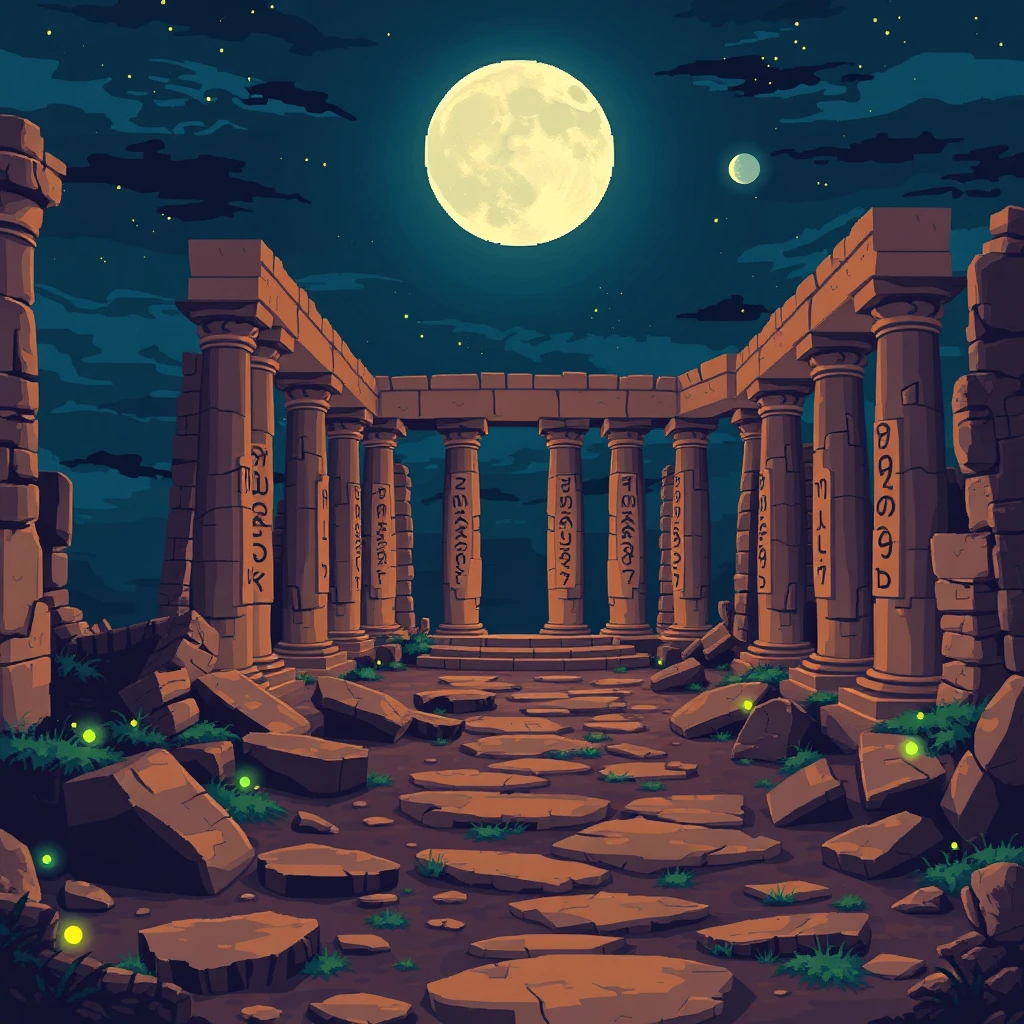
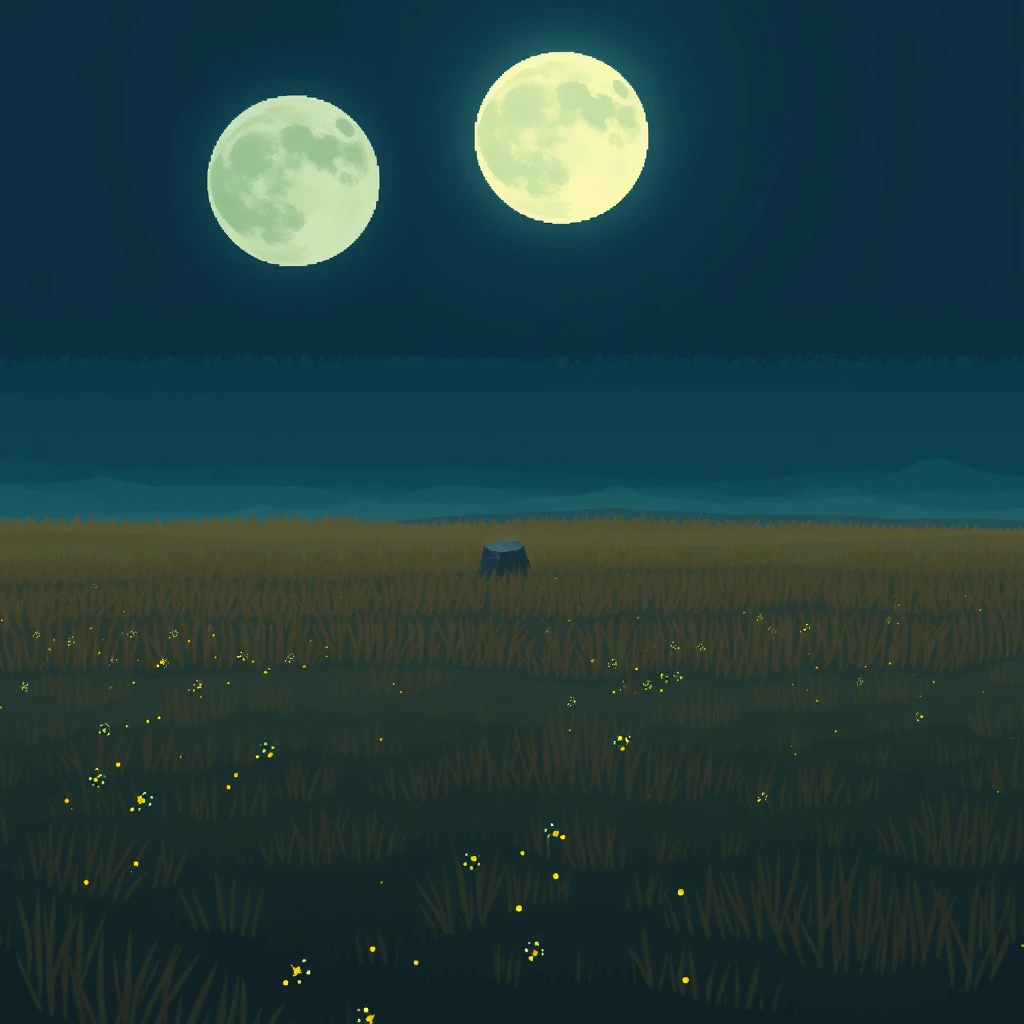
feat: pipeline update and hidden posts system
- Update content config and handoff state
- Add 10 cover images for hidden posts
- Update cover sprite composition script
- Pipeline update post

[skip ci]

diff --git a/src/content.config.ts b/src/content.config.ts
@@ -8,7 +8,7 @@ const posts = defineCollection({
     description: z.string(),
     date: z.date(),
     pubDate: z.date().optional(),
-    project: z.enum(['arachne', 'dogwalk', 'portfolio', 'capivara', 'tatuengine', 'estudos', 'descobertas', 'lifelog', 'seguranca', 'yurumi']),
+    project: z.enum(['arachne', 'capivara', 'descobertas', 'dogwalk', 'estudos', 'lifelog', 'pipeline-update', 'portfolio', 'seguranca', 'tatuengine', 'yurumi']),
     tags: z.array(z.string()),
     icon: z.string().optional(),
     cover: z.string().optional(),

diff --git a/scripts/cover-sprite-compose.py b/scripts/cover-sprite-compose.py
@@ -69,9 +69,10 @@ SCENES = {
         "Empty scene, no characters, no animals, no people, no text."
     ),
     "torre-servidores": (
-        "empty corridor of a data center, rows of dark server racks, small green "
-        "and amber LEDs, cool blue light on the floor, no one in the corridor. "
-        "Empty scene, no characters, no animals, no people, no text."
+        "empty wide stone plateau at dusk under a teal sky, one single tall "
+        "monolithic obelisk silhouette on the horizon, low fog, distant "
+        "mountains, smooth open ground. Empty scene, no buildings, no machines, "
+        "no cables, no panels, no characters, no animals, no people, no text."
     ),
     "floresta-nebulosa": (
         "empty dense forest clearing at night, giant twisted trees, bioluminescent "
@@ -84,19 +85,23 @@ SCENES = {
         "no people, no text."
     ),
     "ruinas-runas": (
-        "empty ruins of an ancient stone temple at night, broken columns, "
-        "glowing runic carvings, moss and fireflies, full moon. "
-        "Empty scene, no characters, no animals, no people, no text."
+        "empty wide moonlit grassland at night, one single broken stone column "
+        "on the horizon, low ground mist, huge full moon, fireflies near the "
+        "floor, smooth open ground. Empty scene, no walls, no rows of pillars, "
+        "no runes, no carvings, no characters, no animals, no people, no text."
     ),
     "biblioteca-flutuante": (
-        "empty abandoned library interior, tall wooden shelves, open books and "
-        "scrolls floating in the air, warm lantern light, dust motes. "
-        "Empty scene, no characters, no animals, no people, no text."
+        "wide sunrise grassland with a single big tree silhouette on the horizon, "
+        "warm orange and gold sky, low mist on the ground, a few small floating "
+        "light motes, wide clean empty sky above. "
+        "Empty scene, no man-made structures, no characters, no animals, no "
+        "people, no text."
     ),
     "ponte-lanternas": (
-        "empty old wooden bridge over a still lake at night, rows of paper "
-        "lanterns reflected in the water, mist, mountains in the distance. "
-        "Empty scene, no characters, no animals, no people, no text."
+        "calm open lake at twilight, smooth water mirror, glowing rocks floating "
+        "above the surface, distant mountains, clear gradient sky. "
+        "Empty scene, no bridge, no lanterns, no ropes, no boats, no characters, "
+        "no animals, no people, no text."
     ),
     "caverna-cristais": (
         "empty crystal cave, giant blue and violet crystals growing from the "
@@ -142,12 +147,8 @@ GRADE = {
 }
 
 NEGATIVE_TAIL = (
-    "No chains, no ropes, no cables, no wires, no fences, no railings, no grids, "
-    "no lattice, no net, no mesh, no hatching, no stripes, no scratches, no "
-    "graffiti, no scaffolding, no ladders, no brackets, no jagged or abstract "
-    "line patterns, no wireframe, no puzzle pieces, no frames, no borders, no "
-    "vignette, no overlays, no checkered pattern, no diagonal lines, no repeated "
-    "linear motifs. Smooth natural environment only."
+    "Clean natural landscape only, no man-made structures, no linear repeated "
+    "patterns, no text."
 )
 
 STYLE_TAIL = (
@@ -206,10 +207,12 @@ def cover_crop(img, w, h):
     return img.crop(box).resize((w, h), _RES)
 
 
-def pixelate(img, grid=256, scene=None):
-    """Reduz a resolucao e volta com NEAREST -> chunky pixel art (casa com o sprite)."""
+def pixelate(img, grid=256, scene=None, enabled=True):
+    """Grade de cor + (opcional) reducao/volta com NEAREST -> chunky pixel art."""
     if scene:
         img = apply_grade(img, scene)
+    if not enabled:
+        return img
     w, h = img.size
     small = img.resize((grid, max(1, int(grid * h / w))), _RES)
     return small.resize((w, h), _NEAREST)
@@ -249,13 +252,16 @@ def apply_grade(bg, scene):
     return out
 
 
-def compose(cover_bg, sprite, w, h, sprite_h_ratio=0.92, scene=None):
-    """Sprite ancorado embaixo/centro, com sombra de contato e vinheta inferior."""
+def compose(cover_bg, sprite, w, h, sprite_h_ratio=0.92, scene=None, pixel=False):
+    """Sprite ancorado embaixo/centro, com sombra de contato e vinheta inferior.
+
+    `pixel=False` (padrao): fundo gerado pela IA entra liso — a pixelizacao
+    NEAREST do fundo inteiro le como "grade/esquematico" (Samuel reprovou
+    06/11/2026: "fundo tem algo como correntes e linhas"). O sprite continua
+    em pixel art crisp; a integracao vem da sombra de contato + vinheta.
+    """
     sprite = trim_alpha(sprite)
-    cover = pixelate(cover_bg.convert("RGBA"), scene=scene).convert("RGBA")
-    # blur leve no fundo pixelado: remove a leitura de "grade/esquematico"
-    # (o bloco duro do NEAREST li como blueprint de linhas finas)
-    cover = cover.filter(ImageFilter.GaussianBlur(1.1))
+    cover = pixelate(cover_bg.convert("RGBA"), scene=scene, enabled=pixel).convert("RGBA")
     sh = int(h * sprite_h_ratio)
     sw = int(sprite.width * (sh / sprite.height))
     sp = soften_alpha(sprite).resize((sw, sh), _RES)
@@ -329,7 +335,8 @@ def main():
             raise SystemExit("nao consegui gerar o fundo")
     bg = Image.open(bg_path).convert("RGB")
 
-    cover = compose(cover_crop(bg, COVER_W, COVER_H), sprite, COVER_W, COVER_H, scene=scene)
+    cover = compose(cover_crop(bg, COVER_W, COVER_H), sprite, COVER_W, COVER_H,
+                    scene=scene, pixel=("--pixel" in sys.argv))
     out = os.path.join(LIFELOG_DIR, f"public/covers/{slug}.webp")
     cover.save(out, "WEBP", quality=88, method=6)
     print(f"OK {out} scene={scene} bytes={os.path.getsize(out)}")
